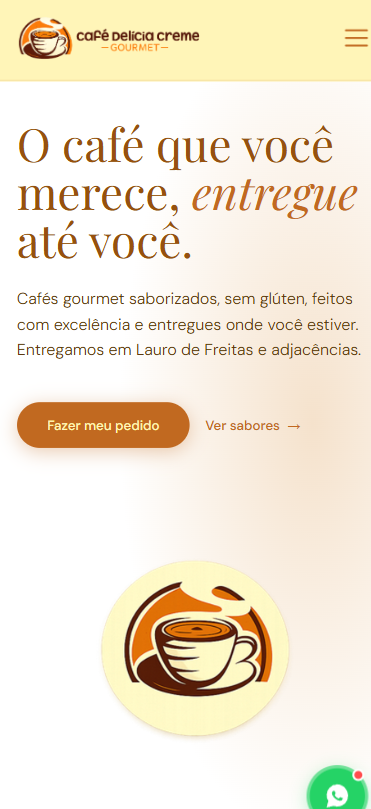
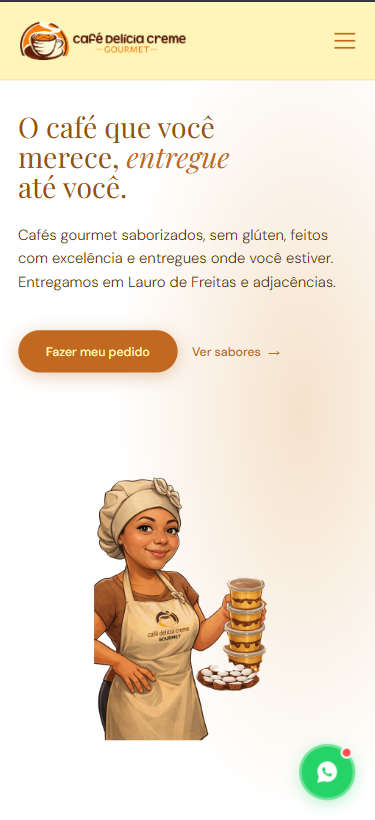
Realizada novas implementações

diff --git a/src/components/Projetos.jsx b/src/components/Projetos.jsx
@@ -35,6 +35,22 @@ const projects = [
       tecnologias: ["HTML", "CSS", "Tailwind", "JavaScript", "React"],
     },
   },
+  {
+    title: "Paraíso Pet",
+    category: "Site Institucional",
+    desc: "Site para pet shop com foco em apresentar os serviços, produtos e facilitar o contato com tutores de animais de estimação.",
+    url: "https://paraiso-pet.vercel.app/",
+    preview: (
+      <>
+        <img src="/Shot_ParaisoPet.png"        alt="Paraíso Pet" className="hidden sm:block w-full h-full object-cover object-top" />
+        <img src="/Shot_ParaisoPet_Mobile.png" alt="Paraíso Pet" className="block sm:hidden w-full h-full object-cover object-top" />
+      </>
+    ),
+    detalhes: {
+      sobre: "O Paraíso Pet é um pet shop dedicado a oferecer os melhores produtos e serviços para animais de estimação. O site foi desenvolvido para apresentar o portfólio de serviços, facilitar o contato com os clientes e transmitir o carinho e cuidado que a marca tem com cada pet.",
+      tecnologias: ["HTML", "CSS", "Tailwind", "JavaScript", "React"],
+    },
+  },
 ];
 
 /* ── Arrow button ── */
@@ -65,21 +81,13 @@ export default function Projetos() {
   const { dark } = useTheme();
   const [current, setCurrent] = useState(0);
   const [modal, setModal] = useState(null);
-  const prevRef = useRef(0);
   const touchStartX = useRef(0);
 
   const navigate = (dir) => {
-    prevRef.current = current;
     setCurrent(i => dir === "right"
-      ? Math.min(projects.length - 1, i + 1)
-      : Math.max(0, i - 1)
+      ? (i + 1) % projects.length
+      : (i - 1 + projects.length) % projects.length
     );
-  };
-
-  const goTo = (i) => {
-    if (i === current) return;
-    prevRef.current = current;
-    setCurrent(i);
   };
 
   const prev = () => navigate("left");
@@ -125,7 +133,7 @@ export default function Projetos() {
             {/* Seta esquerda */}
             <div className="flex-shrink-0">
               {projects.length > 1
-                ? <Arrow dir="left" onClick={prev} disabled={current === 0} />
+                ? <Arrow dir="left" onClick={prev} disabled={false} />
                 : <div className="w-9 sm:w-11" />}
             </div>
 
@@ -133,16 +141,13 @@ export default function Projetos() {
             <div className="relative flex-1 max-w-[860px] aspect-[9/16] sm:aspect-[1920/905] rounded-2xl overflow-hidden">
               {projects.map((p, i) => {
                 const isActive = i === current;
-                const wasActive = prevRef.current === i;
-                if (!isActive && !wasActive) return null;
-
                 return (
                   <div
                     key={p.title}
                     style={{
                       position: "absolute",
                       inset: 0,
-                      transition: "opacity 480ms ease",
+                      transition: "opacity 500ms ease",
                       opacity: isActive ? 1 : 0,
                       pointerEvents: isActive ? "auto" : "none",
                       zIndex: isActive ? 2 : 1,
@@ -162,7 +167,7 @@ export default function Projetos() {
             {/* Seta direita */}
             <div className="flex-shrink-0">
               {projects.length > 1
-                ? <Arrow dir="right" onClick={next} disabled={current === projects.length - 1} />
+                ? <Arrow dir="right" onClick={next} disabled={false} />
                 : <div className="w-9 sm:w-11" />}
             </div>
           </div>